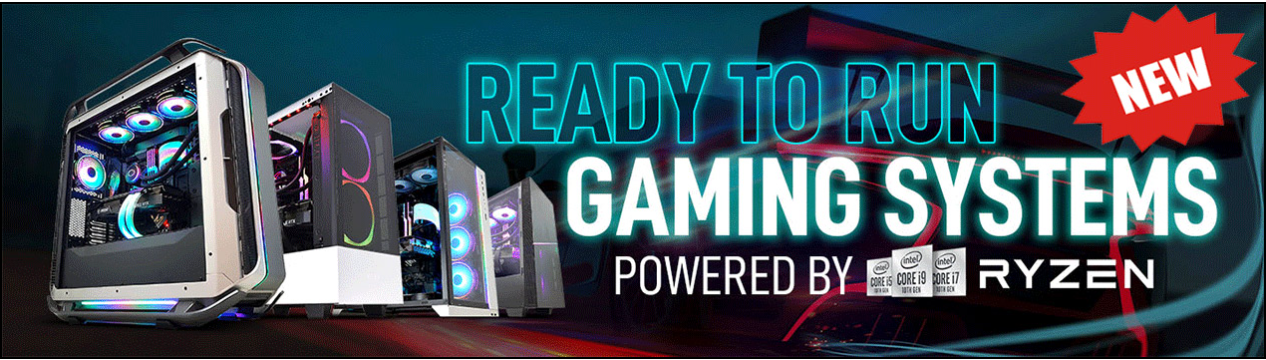
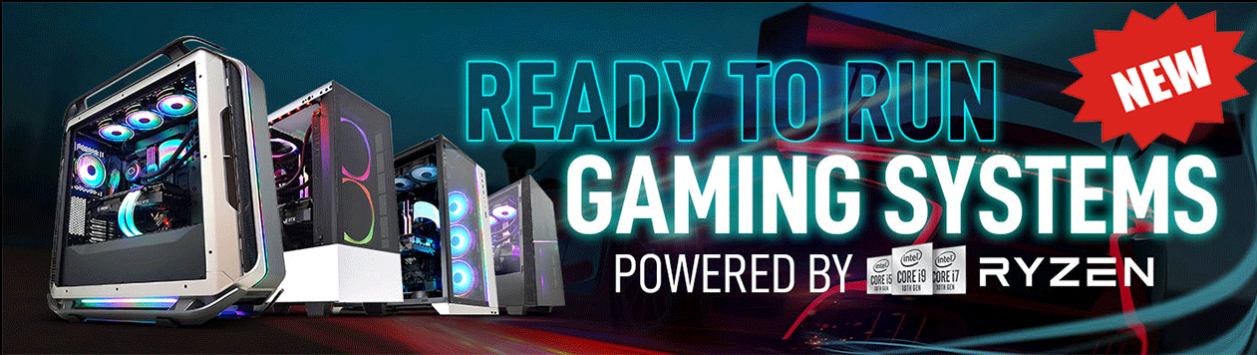
edite home page slider

diff --git a/frontend/src/component/homepage/style.css b/frontend/src/component/homepage/style.css
@@ -12,17 +12,20 @@
 
 }
 .continerAll_img_page{
-
+padding: 0;
+margin: 0;
+background: black;
 }
 .continerAll_img_page img{
   padding: 0;
   margin: 0;
   width: 100%;
-  border: 0; 
+  border: none; 
 
 }
 .img {
-
+  padding: 0;
+  margin: 0;
   width: 100%;
   height: 600px;
 }
@@ -30,7 +33,10 @@
 
 }
 
-
+.ease{
+  padding: 0;
+  margin: 0;
+}
 .each-slide span {
   
   padding: 20px;
@@ -40,7 +46,10 @@
   text-align: center;
 }
 
-
+.each-slide{
+  padding: 0;
+  margin: 0;
+}
 
 
 .test2{
